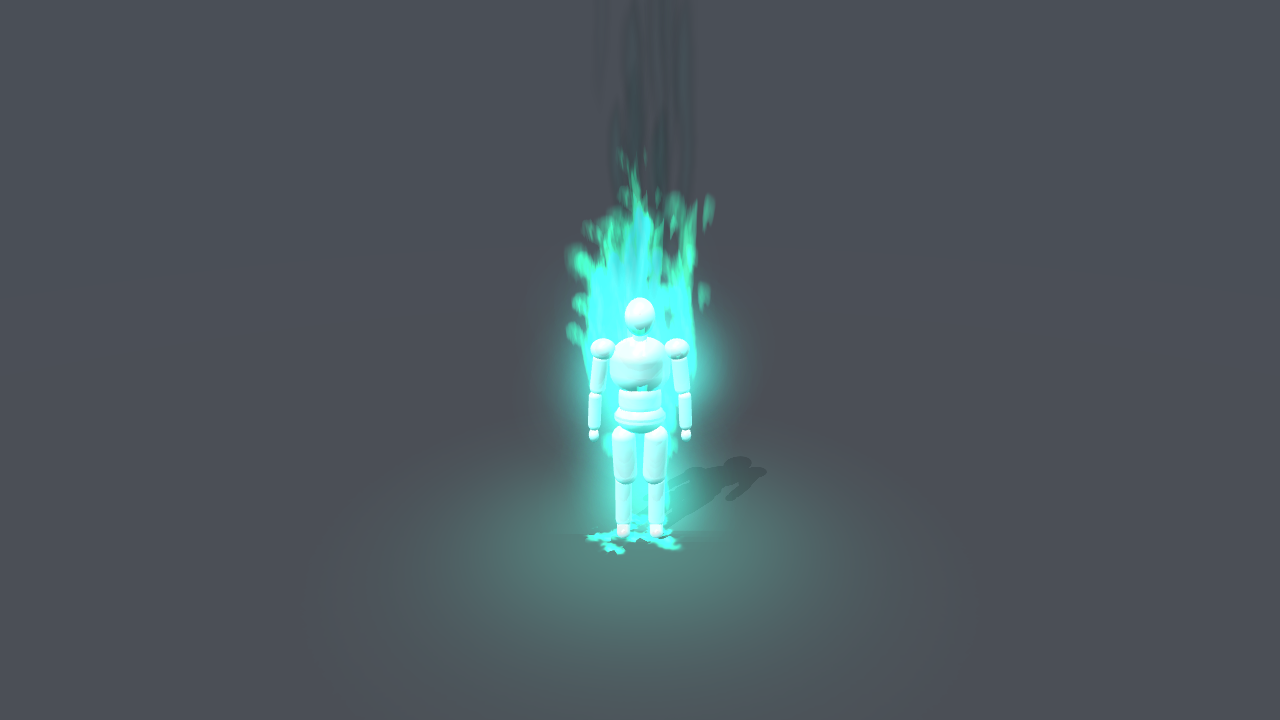
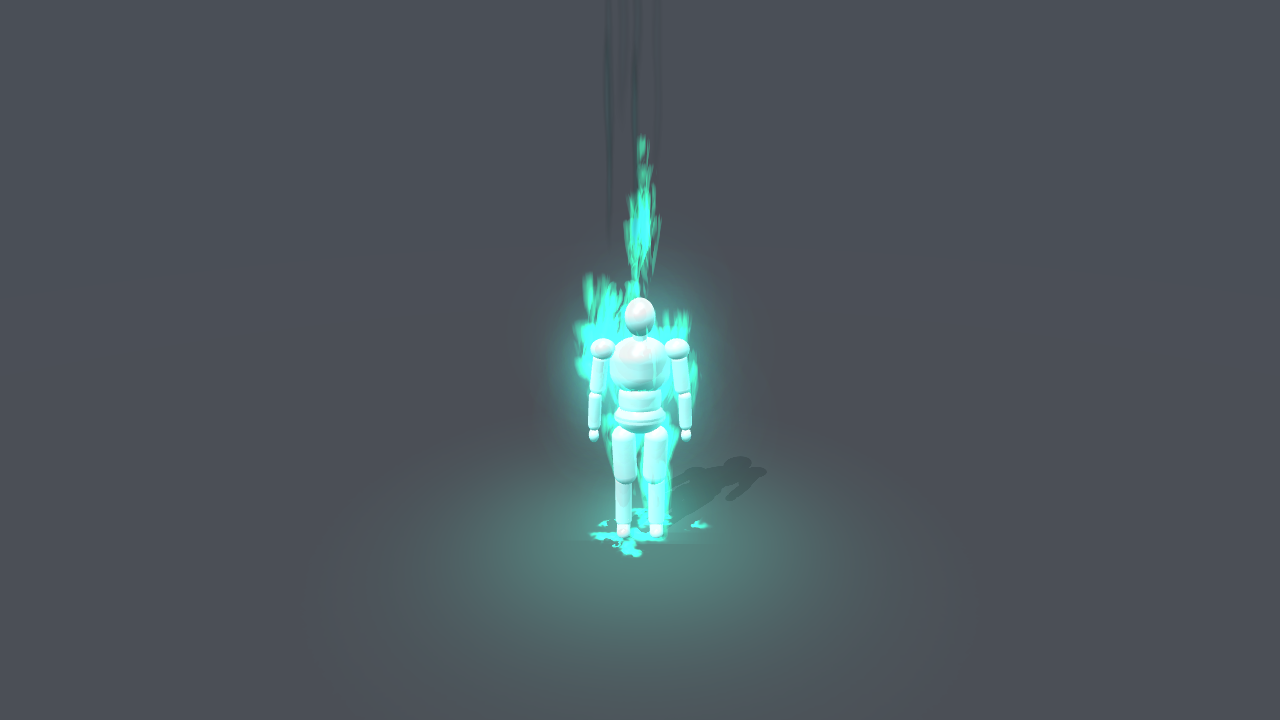
Flame aura demo: tongues of flame, each sheet on its own noise
The sheets read as blobs rising in step. The map is now noise stretched
upward into licks of flame, laid out as a 4 by 4 flipbook of the same
tiling noise; a random start tile gives every sheet its own stretch of
it. Sheets, halo and plume are narrower and dimmer, and a thin flame
rises off the crown as in the reference.

Claude-Session: https://claude.ai/code/session_01HtcrPtWdY6wY2hETrLx4S5

Changed region(s): [[0.4375, 0.1833, 0.5938, 0.7944]]

diff --git a/examples/src/demos/flameAura.ts b/examples/src/demos/flameAura.ts
@@ -43,10 +43,11 @@ import type {DemoContext} from '../types';
  * Every texture is painted below, so the effect needs no asset files.
  *
  * The fire is the masked panner of Unity's and Unreal's flame materials:
- * billowing noise scrolls up and wavers (`mapUV` scroll, UV distortion)
- * through a still flame silhouette (`mask`); the gradient map colours the
- * product and the particle's alpha wears it away from its faint edges
- * (`erosion`).
+ * tongues of flame painted as noise scroll up and waver (`mapUV` scroll, UV
+ * distortion) through a still flame silhouette (`mask`); the gradient map
+ * colours the product and the particle's alpha wears it away from its faint
+ * edges (`erosion`). A random start tile gives every sheet its own stretch of
+ * the noise, as a random UV offset per particle does in those engines.
  */
 
 /** A square canvas texture painted by `paint`, wrapping or clamped. */
@@ -143,13 +144,56 @@ function erosionNoise(image: ImageData, size: number): void {
     }
 }
 
-/** Billowing tileable noise in red, cores bright and gaps clear: the energy that rises through a flame. */
-function energyNoise(image: ImageData, size: number): void {
-    const n = fractalNoise(81, 3, 5);
+/**
+ * Tileable fractal value noise stretched along V: `cellsX` by `cellsY` cells
+ * in its first octave, so its features run upward like licks of flame.
+ */
+function streakNoise(seed: number, cellsX: number, cellsY: number, octaves: number): (x: number, y: number) => number {
+    const random = seeded(seed);
+    const layers = Array.from({length: octaves}, (_, o) => {
+        const nx = cellsX << o;
+        const ny = cellsY << o;
+        return {nx, ny, grid: Array.from({length: nx * ny}, random)};
+    });
+    const smooth = (t: number) => t * t * (3 - 2 * t);
+    return (x, y) => {
+        let sum = 0;
+        let weight = 0;
+        let amplitude = 1;
+        for (const {nx, ny, grid} of layers) {
+            const fx = (((x % 1) + 1) % 1) * nx;
+            const fy = (((y % 1) + 1) % 1) * ny;
+            const ix = Math.floor(fx);
+            const iy = Math.floor(fy);
+            const tx = smooth(fx - ix);
+            const ty = smooth(fy - iy);
+            const at = (gx: number, gy: number) => grid[(gy % ny) * nx + (gx % nx)];
+            const top = at(ix, iy) * (1 - tx) + at(ix + 1, iy) * tx;
+            const bottom = at(ix, iy + 1) * (1 - tx) + at(ix + 1, iy + 1) * tx;
+            sum += (top * (1 - ty) + bottom * ty) * amplitude;
+            weight += amplitude;
+            amplitude *= 0.55;
+        }
+        return sum / weight;
+    };
+}
+
+/**
+ * Tongues of flame as tileable noise in every channel: streaks stretched
+ * upward and bent sideways by a second noise, bright where they gather and
+ * clear between them.
+ */
+function tongueNoise(image: ImageData, size: number): void {
+    const n = streakNoise(81, 5, 2, 4);
+    const warp = streakNoise(23, 3, 2, 3);
     for (let y = 0; y < size; y++) {
         for (let x = 0; x < size; x++) {
-            const v = smoothstep(0.38, 0.72, n(x / size, y / size));
-            put(image, size, x, y, v, v, v, v);
+            const u = x / size;
+            const v = y / size;
+            const bent = u + (warp(u, v) - 0.5) * 0.5;
+            const ridge = 1 - Math.abs(n(bent, v) * 2 - 1);
+            const a = smoothstep(0.35, 0.9, ridge) * smoothstep(0.15, 0.55, n(bent + 0.5, v + 0.5));
+            put(image, size, x, y, a, a, a, a);
         }
     }
 }
@@ -217,8 +261,8 @@ function tealRamp(image: ImageData, size: number): void {
         [0, 0.0, 0.25, 0.22, 0],
         [0.25, 0.0, 0.5, 0.38, 0.8],
         [0.55, 0.0, 0.85, 0.6, 1],
-        [0.8, 0.2, 1, 0.78, 1],
-        [1, 0.82, 1, 0.96, 1],
+        [0.82, 0.1, 1, 0.8, 1],
+        [1, 0.6, 1, 0.92, 1],
     ];
     for (let x = 0; x < size; x++) {
         const u = x / (size - 1);
@@ -336,20 +380,25 @@ export function init({scene, camera, batchRenderer, systems}: DemoContext) {
     const ramp = canvasTexture(scene, 'tealRamp', 64, false, tealRamp);
     const glow = canvasTexture(scene, 'softGlow', 256, false, softGlow);
 
-    // Flame sheets standing round the body: billowing noise (the map) rises
-    // through a flame silhouette (the mask), and the ramp colours their
-    // product, so the fire reads as masses of energy rather than sparks. The
-    // particle's alpha is the erosion level that trims their faint edges.
-    const energy = canvasTexture(scene, 'energyNoise', 256, true, energyNoise);
+    // Flame sheets standing round the body: tongues of flame (the map) lick
+    // upward through a flame silhouette (the mask), and the ramp colours their
+    // product. The particle's alpha is the erosion level that trims their
+    // faint edges. The map is laid out as a 4 by 4 flipbook of the same
+    // tiling noise and each sheet starts on a random tile, so every sheet
+    // shows its own stretch of the noise rather than all moving in step.
+    const tongues = canvasTexture(scene, 'tongueNoise', 256, true, tongueNoise);
     const silhouette = canvasTexture(scene, 'flameMask', 128, false, flameMask);
     const sheetMaterial: Partial<ParticleSystemParameters> = {
-        texture: energy,
-        mapUV: {channel: 1, tiling: [1.2, 0.55], scroll: [0, -0.6]},
+        texture: tongues,
+        uTileCount: 4,
+        vTileCount: 4,
+        startTileIndex: new IntervalValue(0, 16),
+        mapUV: {tiling: [4 * 0.9, 4 * 0.6], scroll: [0, -0.9]},
         blendMode: Constants.ALPHA_ADD,
         mask: {map: silhouette, mapUV: {channel: 1}},
         gradientMap: {ramp, channel: 'a'},
-        uvDistortion: {map: distortion, strength: 0.08, mapUV: {channel: 1, tiling: [0.8, 0.5], scroll: [0, -0.3]}},
-        erosion: {softness: 0.3},
+        uvDistortion: {map: distortion, strength: 0.12, mapUV: {channel: 1, tiling: [0.7, 0.5], scroll: [0, -0.5]}},
+        erosion: {softness: 0.35},
     };
     const surface = new MeshSurfaceEmitter();
     surface.mesh = body;
@@ -359,15 +408,19 @@ export function init({scene, camera, batchRenderer, systems}: DemoContext) {
         looping: true,
         prewarm: true,
         worldSpace: true,
-        startLife: new IntervalValue(0.9, 1.4),
-        startSpeed: new ConstantValue(0.05),
-        startSize: new Vector3Function(new IntervalValue(0.3, 0.48), new IntervalValue(0.8, 1.2), new ConstantValue(1)),
-        startRotation: new IntervalValue(-0.12, 0.12),
-        startColor: new ConstantColor(new Color4(0.5, 0.72, 0.6, 1)),
-        emissionOverTime: new ConstantValue(44),
+        startLife: new IntervalValue(0.7, 1.1),
+        startSpeed: new ConstantValue(0.04),
+        startSize: new Vector3Function(
+            new IntervalValue(0.22, 0.34),
+            new IntervalValue(0.45, 0.8),
+            new ConstantValue(1)
+        ),
+        startRotation: new IntervalValue(-0.15, 0.15),
+        startColor: new ConstantColor(new Color4(0.4, 0.62, 0.52, 1)),
+        emissionOverTime: new ConstantValue(70),
         shape: surface,
         renderMode: RenderMode.VerticalBillBoard,
-        pivot: new BVector3(0, 0.25, 0),
+        pivot: new BVector3(0, 0.15, 0),
         ...sheetMaterial,
     });
     sheets.addBehavior(new ForceOverLife(new ConstantValue(0), new ConstantValue(0.6), new ConstantValue(0)));
@@ -377,7 +430,41 @@ export function init({scene, camera, batchRenderer, systems}: DemoContext) {
                 [1, 1, 1],
                 [1, 1, 1],
             ],
-            [0, 0.7, 0.6, 0]
+            [0, 0.75, 0.6, 0]
+        )
+    );
+
+    // A tall thin tongue of flame licking up off the crown of the head.
+    const crest = new ParticleSystem({
+        scene,
+        duration: 1,
+        looping: true,
+        prewarm: true,
+        worldSpace: true,
+        startLife: new IntervalValue(0.5, 0.8),
+        startSpeed: new IntervalValue(0.6, 0.9),
+        startSize: new Vector3Function(
+            new IntervalValue(0.14, 0.22),
+            new IntervalValue(0.6, 0.9),
+            new ConstantValue(1)
+        ),
+        startRotation: new IntervalValue(-0.08, 0.08),
+        startColor: new ConstantColor(new Color4(0.4, 0.62, 0.52, 1)),
+        emissionOverTime: new ConstantValue(10),
+        shape: new ConeEmitter({radius: 0.05, angle: 0.05}),
+        renderMode: RenderMode.VerticalBillBoard,
+        pivot: new BVector3(0, 0.3, 0),
+        ...sheetMaterial,
+    });
+    crest.emitter.position = new BVector3(0, 1.75, 0);
+    crest.emitter.rotation.x = -Math.PI / 2;
+    crest.addBehavior(
+        overLife(
+            [
+                [1, 1, 1],
+                [1, 1, 1],
+            ],
+            [0, 0.75, 0.55, 0]
         )
     );
 
@@ -391,16 +478,16 @@ export function init({scene, camera, batchRenderer, systems}: DemoContext) {
         worldSpace: true,
         startLife: new IntervalValue(0.6, 0.9),
         startSpeed: new IntervalValue(1.8, 2.4),
-        startSize: new Vector3Function(new IntervalValue(0.2, 0.3), new IntervalValue(1.2, 1.6), new ConstantValue(1)),
+        startSize: new Vector3Function(new IntervalValue(0.1, 0.16), new IntervalValue(1.2, 1.6), new ConstantValue(1)),
         startColor: new ConstantColor(new Color4(1, 1, 1, 1)),
-        emissionOverTime: new ConstantValue(18),
-        shape: new ConeEmitter({radius: 0.06, angle: 0.06}),
+        emissionOverTime: new ConstantValue(12),
+        shape: new ConeEmitter({radius: 0.03, angle: 0.03}),
         renderMode: RenderMode.VerticalBillBoard,
         texture: canvasTexture(scene, 'wisp', 128, false, wisp),
         blendMode: Constants.ALPHA_COMBINE,
         uvDistortion: {map: distortion, strength: 0.05, mapUV: {tiling: [1, 0.5], scroll: [0, -0.6]}},
     });
-    plume.emitter.position = new BVector3(0, 2.1, 0);
+    plume.emitter.position = new BVector3(0, 2.3, 0);
     plume.emitter.rotation.x = -Math.PI / 2;
     plume.addBehavior(
         overLife(
@@ -425,7 +512,7 @@ export function init({scene, camera, batchRenderer, systems}: DemoContext) {
         startLife: new IntervalValue(0.8, 1.2),
         startSpeed: new ConstantValue(0.05),
         startSize: new IntervalValue(1, 1.5),
-        startColor: new ConstantColor(new Color4(0.05, 0.4, 0.35, 1)),
+        startColor: new ConstantColor(new Color4(0.03, 0.22, 0.19, 1)),
         emissionOverTime: new ConstantValue(40),
         shape: surface,
         texture: glow,
@@ -497,7 +584,7 @@ export function init({scene, camera, batchRenderer, systems}: DemoContext) {
         )
     );
 
-    for (const system of [pool, splash, halo, plume, sheets]) {
+    for (const system of [pool, splash, halo, plume, sheets, crest]) {
         batchRenderer.addSystem(system);
         systems.push(system);
     }

diff --git a/examples/src/demoManifest.ts b/examples/src/demoManifest.ts
@@ -232,7 +232,7 @@ export const demoManifest: DemoManifestEntry[] = [
         module: 'flameAura',
         sourcePath: 'examples/src/demos/flameAura.ts',
         description:
-            'A teal flame aura around a standing figure: billowing noise scrolls up through flame silhouettes (mask) shed from the body by a MeshSurfaceEmitter, coloured by a gradient map and trimmed by erosion; a plume of smoke off the head and light pooled on the floor.',
+            'A teal flame aura around a standing figure: tongues of flame scroll up through flame silhouettes (mask), each sheet on a random flipbook tile, shed from the body by a MeshSurfaceEmitter, coloured by a gradient map and trimmed by erosion; a plume of smoke off the head and light pooled on the floor.',
         tags: ['loop', 'material', 'mesh'],
         preview: {icon: 'FA', gradient: 'linear-gradient(135deg, #3ef2d0 0%, #1d3a40 100%)'},
     },
